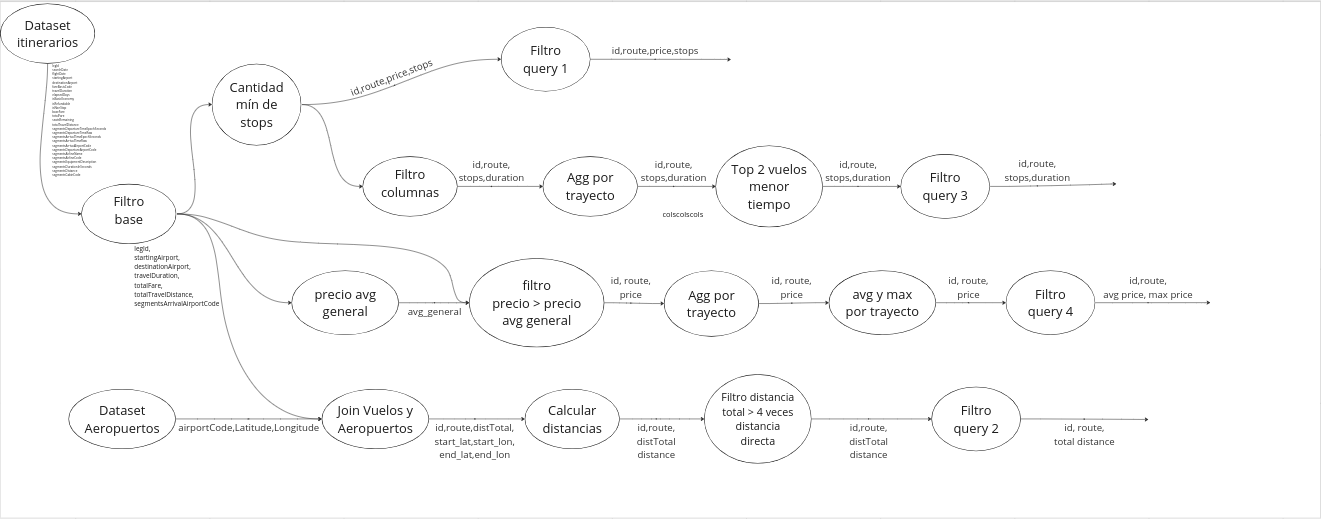
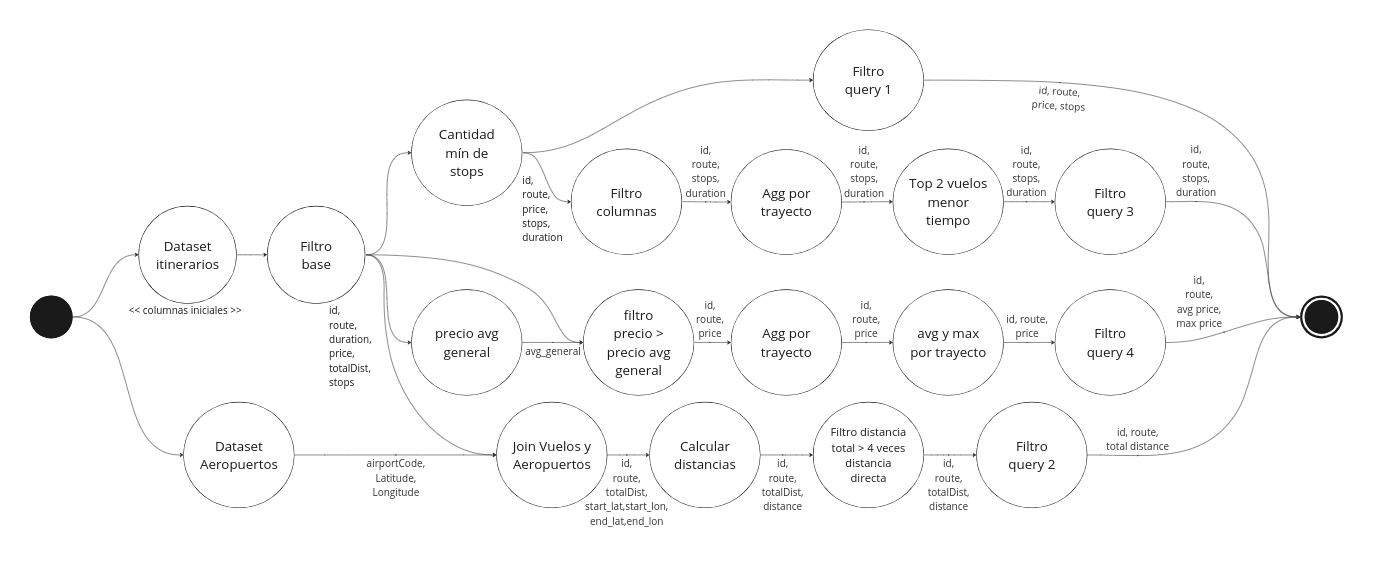
add to readme

diff --git a/README.md b/README.md
@@ -34,7 +34,7 @@ En este proyecto se busca crear un sistema distribuido que analice 6 meses de re
 
 Los registros poseen trayectos (aeropuertos origen-destino), tarifa total,  distancia total, duración, cada segmento con escalas y aerolíneas.
 
-Utilizando una arquitectura cliente-servidor, los registros se deben leer en el cliente, recibir en el servidor y procesar en diversos workers de manera que los mismos se puedan replicar y el sistema sea escalable. Además, se deben utilizar los middleware correspondientes para minimizar la pérdida de datos.
+Utilizando una arquitectura cliente-servidor, los registros se deben leer en el cliente, recibir en el servidor y procesar en diversos workers de manera que los mismos se puedan replicar y el sistema sea escalable.
 
 Se busca procesar las siguientes queries:
 
@@ -64,7 +64,38 @@ Así, el servidor cuenta los EOF que recibe con un body que tiene el nombre de u
 
 ![](docs/diagramas/DAG.png)
 
+En este gŕafico se puede observar en forma de grafo el "camino" de los datos desde que se reciben en el servidor hasta que llegan a los resultados, luego de su correspondiente procesamiento. Cada nodo representa un worker, que procesa los datos recibidos y envía al siguiente worker los datos procesados. Finalmente, esos resultados convergen en un sink. 
+
 ## Vistas
+
+### Escenarios
+
+![](docs/diagramas/casos_de_uso.png)
+
+- Cargar Datos al Sistema:
+  Permite al cliente cargar los datos al sistema para realizar consultas.
+  - Precondiciones: _no hay_.
+  - Flujo Básico:
+    1) El cliente se conecta al servidor.
+    2) El cliente envía los datos de aeropuertos e itinerarios al sistema.
+- Consultar vuelos con muchas escalas
+  Permite al cliente obtener información de los vuelos que tienen 3 o más escalas.
+  - Precondiciones: Se realizó la carga de datos al sistema.
+  - Flujo Básico:
+    1) El cliente realiza la consulta.
+  - Postcondiciones: 
+- Consultar vuelos con distancia recorrida mayor a origen-destino
+  Permite al cliente obtener información de los vuelos que tienen distancia recorrida 4 veces mayor o más a la distancia origen-destino.
+  - Precondiciones: Se realizó la carga de datos al sistema.
+  - Postcondiciones:
+- Consultar vuelos más rápidos por tramo
+  Permite al cliente obtener los 2 vuelos más rápidos (con menor tiempo) por cada tramo para aquellos vuelos con 3 o más escalas.
+  - Precondiciones: Se realizó la carga de datos al sistema.
+  - Postcondiciones:
+- Consultar métricas de precios por trayecto
+  Obtener, para los vuelos con precio mayor a la media, el valor medio y máximo de precio por cada trayecto.
+  - Precondiciones: Se realizó la carga de datos al sistema.
+  - Postcondiciones: 
 
 ### Física
 
@@ -73,6 +104,8 @@ _[Volver al Indice](#indice)_
 #### Despliegue
 
 ![](docs/diagramas/despliegue.png)
+
+En este diagrama de despliegue se puede observar que se posee una instancia del Server, una del Middleware y múltiples workers. Tanto para el Server como para los workers se utiliza Docker y Python, y para el Middleware Docker y RabbitMQ.
 
 #### Robustez
 
